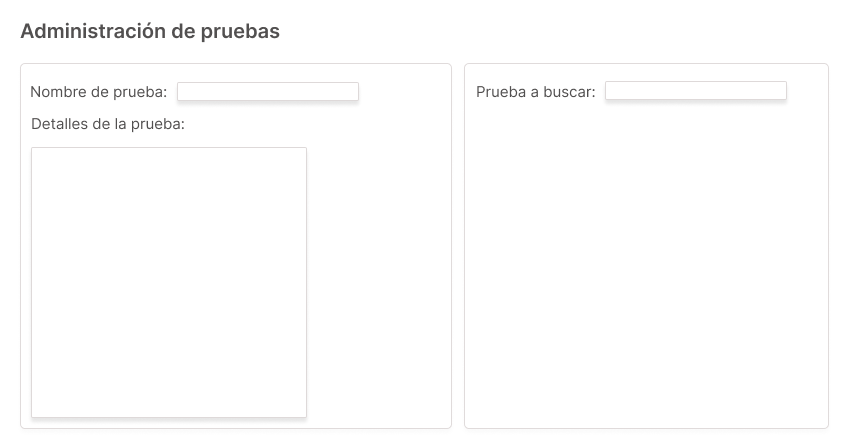
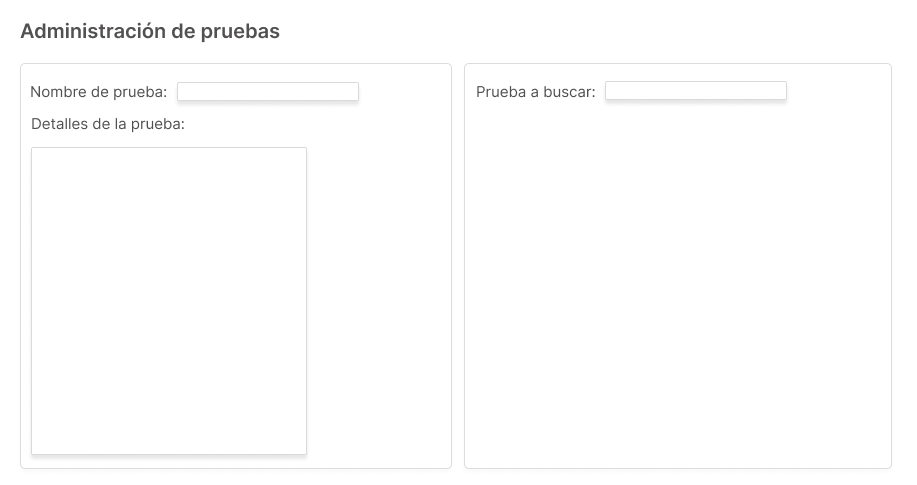
Update 25-01-2023 v1

diff --git a/src/view/fingering/FTManagerTestView.java b/src/view/fingering/FTManagerTestView.java
@@ -14,13 +14,16 @@ public class FTManagerTestView extends javax.swing.JFrame {
     private void initComponents() {
 
         jpiBackground = new org.edisoncor.gui.panel.PanelImage();
-        jbtTests = new javax.swing.JButton();
-        jbtTests1 = new javax.swing.JButton();
-        jbtTests2 = new javax.swing.JButton();
+        jbtUpdate = new javax.swing.JButton();
+        jbtSearch = new javax.swing.JButton();
+        jbtNew = new javax.swing.JButton();
         jScrollPane1 = new javax.swing.JScrollPane();
-        jTable1 = new javax.swing.JTable();
+        jtTests = new javax.swing.JTable();
         jScrollPane2 = new javax.swing.JScrollPane();
-        jtaTestText1 = new javax.swing.JTextArea();
+        jtaDetailTest = new javax.swing.JTextArea();
+        jtfSearchTest = new javax.swing.JTextField();
+        jtfNameTest = new javax.swing.JTextField();
+        jbtRegister = new javax.swing.JButton();
 
         setDefaultCloseOperation(javax.swing.WindowConstants.DISPOSE_ON_CLOSE);
         setResizable(false);
@@ -28,41 +31,41 @@ public class FTManagerTestView extends javax.swing.JFrame {
         jpiBackground.setIcon(new javax.swing.ImageIcon(getClass().getResource("/images/fingering_test/bg_mtview.png"))); // NOI18N
         jpiBackground.setLayout(new org.netbeans.lib.awtextra.AbsoluteLayout());
 
-        jbtTests.setIcon(new javax.swing.ImageIcon(getClass().getResource("/images/fingering_test/btn_update_mt_off.png"))); // NOI18N
-        jbtTests.setBorder(null);
-        jbtTests.setBorderPainted(false);
-        jbtTests.setContentAreaFilled(false);
-        jbtTests.setCursor(new java.awt.Cursor(java.awt.Cursor.HAND_CURSOR));
-        jbtTests.setDefaultCapable(false);
-        jbtTests.setEnabled(false);
-        jbtTests.setFocusPainted(false);
-        jbtTests.setRolloverIcon(new javax.swing.ImageIcon(getClass().getResource("/images/fingering_test/btn_update_mt_on.png"))); // NOI18N
-        jbtTests.setRolloverSelectedIcon(new javax.swing.ImageIcon(getClass().getResource("/images/fingering_test/btn_update_mt_on.png"))); // NOI18N
-        jpiBackground.add(jbtTests, new org.netbeans.lib.awtextra.AbsoluteConstraints(330, 210, -1, -1));
+        jbtUpdate.setIcon(new javax.swing.ImageIcon(getClass().getResource("/images/fingering_test/btn_update_mt_off.png"))); // NOI18N
+        jbtUpdate.setBorder(null);
+        jbtUpdate.setBorderPainted(false);
+        jbtUpdate.setContentAreaFilled(false);
+        jbtUpdate.setCursor(new java.awt.Cursor(java.awt.Cursor.HAND_CURSOR));
+        jbtUpdate.setDefaultCapable(false);
+        jbtUpdate.setEnabled(false);
+        jbtUpdate.setFocusPainted(false);
+        jbtUpdate.setRolloverIcon(new javax.swing.ImageIcon(getClass().getResource("/images/fingering_test/btn_update_mt_on.png"))); // NOI18N
+        jbtUpdate.setRolloverSelectedIcon(new javax.swing.ImageIcon(getClass().getResource("/images/fingering_test/btn_update_mt_on.png"))); // NOI18N
+        jpiBackground.add(jbtUpdate, new org.netbeans.lib.awtextra.AbsoluteConstraints(320, 250, -1, -1));
 
-        jbtTests1.setIcon(new javax.swing.ImageIcon(getClass().getResource("/images/fingering_test/btn_register_mt_off.png"))); // NOI18N
-        jbtTests1.setBorder(null);
-        jbtTests1.setBorderPainted(false);
-        jbtTests1.setContentAreaFilled(false);
-        jbtTests1.setCursor(new java.awt.Cursor(java.awt.Cursor.HAND_CURSOR));
-        jbtTests1.setDefaultCapable(false);
-        jbtTests1.setFocusPainted(false);
-        jbtTests1.setRolloverIcon(new javax.swing.ImageIcon(getClass().getResource("/images/fingering_test/btn_register_mt_on.png"))); // NOI18N
-        jbtTests1.setRolloverSelectedIcon(new javax.swing.ImageIcon(getClass().getResource("/images/fingering_test/btn_register_mt_on.png"))); // NOI18N
-        jpiBackground.add(jbtTests1, new org.netbeans.lib.awtextra.AbsoluteConstraints(330, 150, -1, -1));
+        jbtSearch.setIcon(new javax.swing.ImageIcon(getClass().getResource("/images/fingering_test/btn_search_mt_off.png"))); // NOI18N
+        jbtSearch.setBorder(null);
+        jbtSearch.setBorderPainted(false);
+        jbtSearch.setContentAreaFilled(false);
+        jbtSearch.setCursor(new java.awt.Cursor(java.awt.Cursor.HAND_CURSOR));
+        jbtSearch.setDefaultCapable(false);
+        jbtSearch.setFocusPainted(false);
+        jbtSearch.setRolloverIcon(new javax.swing.ImageIcon(getClass().getResource("/images/fingering_test/btn_search_mt_on.png"))); // NOI18N
+        jbtSearch.setRolloverSelectedIcon(new javax.swing.ImageIcon(getClass().getResource("/images/fingering_test/btn_search_mt_on.png"))); // NOI18N
+        jpiBackground.add(jbtSearch, new org.netbeans.lib.awtextra.AbsoluteConstraints(630, 110, -1, -1));
 
-        jbtTests2.setIcon(new javax.swing.ImageIcon(getClass().getResource("/images/fingering_test/btn_new_mt_off.png"))); // NOI18N
-        jbtTests2.setBorder(null);
-        jbtTests2.setBorderPainted(false);
-        jbtTests2.setContentAreaFilled(false);
-        jbtTests2.setCursor(new java.awt.Cursor(java.awt.Cursor.HAND_CURSOR));
-        jbtTests2.setDefaultCapable(false);
-        jbtTests2.setFocusPainted(false);
-        jbtTests2.setRolloverIcon(new javax.swing.ImageIcon(getClass().getResource("/images/fingering_test/btn_new_mt_on.png"))); // NOI18N
-        jbtTests2.setRolloverSelectedIcon(new javax.swing.ImageIcon(getClass().getResource("/images/fingering_test/btn_new_mt_on.png"))); // NOI18N
-        jpiBackground.add(jbtTests2, new org.netbeans.lib.awtextra.AbsoluteConstraints(330, 180, -1, -1));
+        jbtNew.setIcon(new javax.swing.ImageIcon(getClass().getResource("/images/fingering_test/btn_new_mt_off.png"))); // NOI18N
+        jbtNew.setBorder(null);
+        jbtNew.setBorderPainted(false);
+        jbtNew.setContentAreaFilled(false);
+        jbtNew.setCursor(new java.awt.Cursor(java.awt.Cursor.HAND_CURSOR));
+        jbtNew.setDefaultCapable(false);
+        jbtNew.setFocusPainted(false);
+        jbtNew.setRolloverIcon(new javax.swing.ImageIcon(getClass().getResource("/images/fingering_test/btn_new_mt_on.png"))); // NOI18N
+        jbtNew.setRolloverSelectedIcon(new javax.swing.ImageIcon(getClass().getResource("/images/fingering_test/btn_new_mt_on.png"))); // NOI18N
+        jpiBackground.add(jbtNew, new org.netbeans.lib.awtextra.AbsoluteConstraints(320, 220, -1, -1));
 
-        jTable1.setModel(new javax.swing.table.DefaultTableModel(
+        jtTests.setModel(new javax.swing.table.DefaultTableModel(
             new Object [][] {
 
             },
@@ -70,34 +73,49 @@ public class FTManagerTestView extends javax.swing.JFrame {
                 "ID", "NOMBRE", "F. REGISTRO", "MODIFICAR", "ELIMINAR"
             }
         ));
-        jTable1.getTableHeader().setReorderingAllowed(false);
-        jScrollPane1.setViewportView(jTable1);
+        jtTests.getTableHeader().setReorderingAllowed(false);
+        jScrollPane1.setViewportView(jtTests);
 
-        jpiBackground.add(jScrollPane1, new org.netbeans.lib.awtextra.AbsoluteConstraints(470, 120, 370, 300));
+        jpiBackground.add(jScrollPane1, new org.netbeans.lib.awtextra.AbsoluteConstraints(470, 150, 410, 310));
 
         jScrollPane1.getViewport().setOpaque(false);
         jScrollPane2.setBorder(null);
         jScrollPane2.setOpaque(false);
 
-        jtaTestText1.setColumns(20);
-        jtaTestText1.setForeground(new java.awt.Color(51, 51, 51));
-        jtaTestText1.setLineWrap(true);
-        jtaTestText1.setBorder(null);
-        jScrollPane2.setViewportView(jtaTestText1);
+        jtaDetailTest.setColumns(20);
+        jtaDetailTest.setForeground(new java.awt.Color(51, 51, 51));
+        jtaDetailTest.setLineWrap(true);
+        jtaDetailTest.setBorder(null);
+        jScrollPane2.setViewportView(jtaDetailTest);
 
-        jpiBackground.add(jScrollPane2, new org.netbeans.lib.awtextra.AbsoluteConstraints(35, 150, 278, 270));
+        jpiBackground.add(jScrollPane2, new org.netbeans.lib.awtextra.AbsoluteConstraints(35, 150, 270, 300));
+
+        jtfSearchTest.setBorder(null);
+        jpiBackground.add(jtfSearchTest, new org.netbeans.lib.awtextra.AbsoluteConstraints(608, 82, 176, -1));
+
+        jtfNameTest.setBorder(null);
+        jpiBackground.add(jtfNameTest, new org.netbeans.lib.awtextra.AbsoluteConstraints(182, 83, 175, -1));
+
+        jbtRegister.setIcon(new javax.swing.ImageIcon(getClass().getResource("/images/fingering_test/btn_register_mt_off.png"))); // NOI18N
+        jbtRegister.setBorder(null);
+        jbtRegister.setBorderPainted(false);
+        jbtRegister.setContentAreaFilled(false);
+        jbtRegister.setCursor(new java.awt.Cursor(java.awt.Cursor.HAND_CURSOR));
+        jbtRegister.setDefaultCapable(false);
+        jbtRegister.setFocusPainted(false);
+        jbtRegister.setRolloverIcon(new javax.swing.ImageIcon(getClass().getResource("/images/fingering_test/btn_register_mt_on.png"))); // NOI18N
+        jbtRegister.setRolloverSelectedIcon(new javax.swing.ImageIcon(getClass().getResource("/images/fingering_test/btn_register_mt_on.png"))); // NOI18N
+        jpiBackground.add(jbtRegister, new org.netbeans.lib.awtextra.AbsoluteConstraints(320, 190, -1, -1));
 
         javax.swing.GroupLayout layout = new javax.swing.GroupLayout(getContentPane());
         getContentPane().setLayout(layout);
         layout.setHorizontalGroup(
             layout.createParallelGroup(javax.swing.GroupLayout.Alignment.LEADING)
-            .addGroup(layout.createSequentialGroup()
-                .addComponent(jpiBackground, javax.swing.GroupLayout.PREFERRED_SIZE, 868, javax.swing.GroupLayout.PREFERRED_SIZE)
-                .addGap(0, 0, Short.MAX_VALUE))
+            .addComponent(jpiBackground, javax.swing.GroupLayout.DEFAULT_SIZE, 917, Short.MAX_VALUE)
         );
         layout.setVerticalGroup(
             layout.createParallelGroup(javax.swing.GroupLayout.Alignment.LEADING)
-            .addComponent(jpiBackground, javax.swing.GroupLayout.DEFAULT_SIZE, 448, Short.MAX_VALUE)
+            .addComponent(jpiBackground, javax.swing.GroupLayout.DEFAULT_SIZE, 485, Short.MAX_VALUE)
         );
 
         pack();
@@ -107,11 +125,14 @@ public class FTManagerTestView extends javax.swing.JFrame {
     // Variables declaration - do not modify//GEN-BEGIN:variables
     private javax.swing.JScrollPane jScrollPane1;
     private javax.swing.JScrollPane jScrollPane2;
-    private javax.swing.JTable jTable1;
-    public javax.swing.JButton jbtTests;
-    public javax.swing.JButton jbtTests1;
-    public javax.swing.JButton jbtTests2;
+    public javax.swing.JButton jbtNew;
+    public javax.swing.JButton jbtRegister;
+    public javax.swing.JButton jbtSearch;
+    public javax.swing.JButton jbtUpdate;
     private org.edisoncor.gui.panel.PanelImage jpiBackground;
-    public javax.swing.JTextArea jtaTestText1;
+    public javax.swing.JTable jtTests;
+    public javax.swing.JTextArea jtaDetailTest;
+    public javax.swing.JTextField jtfNameTest;
+    public javax.swing.JTextField jtfSearchTest;
     // End of variables declaration//GEN-END:variables
 }

diff --git a/src/controller/fingering/FTManagerTestController.java b/src/controller/fingering/FTManagerTestController.java
@@ -1,0 +1,39 @@
+package controller.fingering;
+
+import java.awt.event.ActionEvent;
+import java.awt.event.ActionListener;
+import view.fingering.FTManagerTestView;
+
+public class FTManagerTestController extends FTManagerTestView implements ActionListener{
+    
+    private static FTManagerTestController instance;
+    
+    public FTManagerTestController()throws Exception{
+        super();
+        this.registerEvents();
+        this.registerObjects();
+    }
+    
+    public static FTManagerTestController getInstance(){
+        try {
+            instance=new FTManagerTestController();
+        } catch (Exception e) {
+            e.printStackTrace();
+        }
+        return instance;
+    }
+    
+    private void registerEvents(){
+        
+    }
+    
+    private void registerObjects(){
+        
+    }
+
+    @Override
+    public void actionPerformed(ActionEvent e) {
+        
+    }
+    
+}
